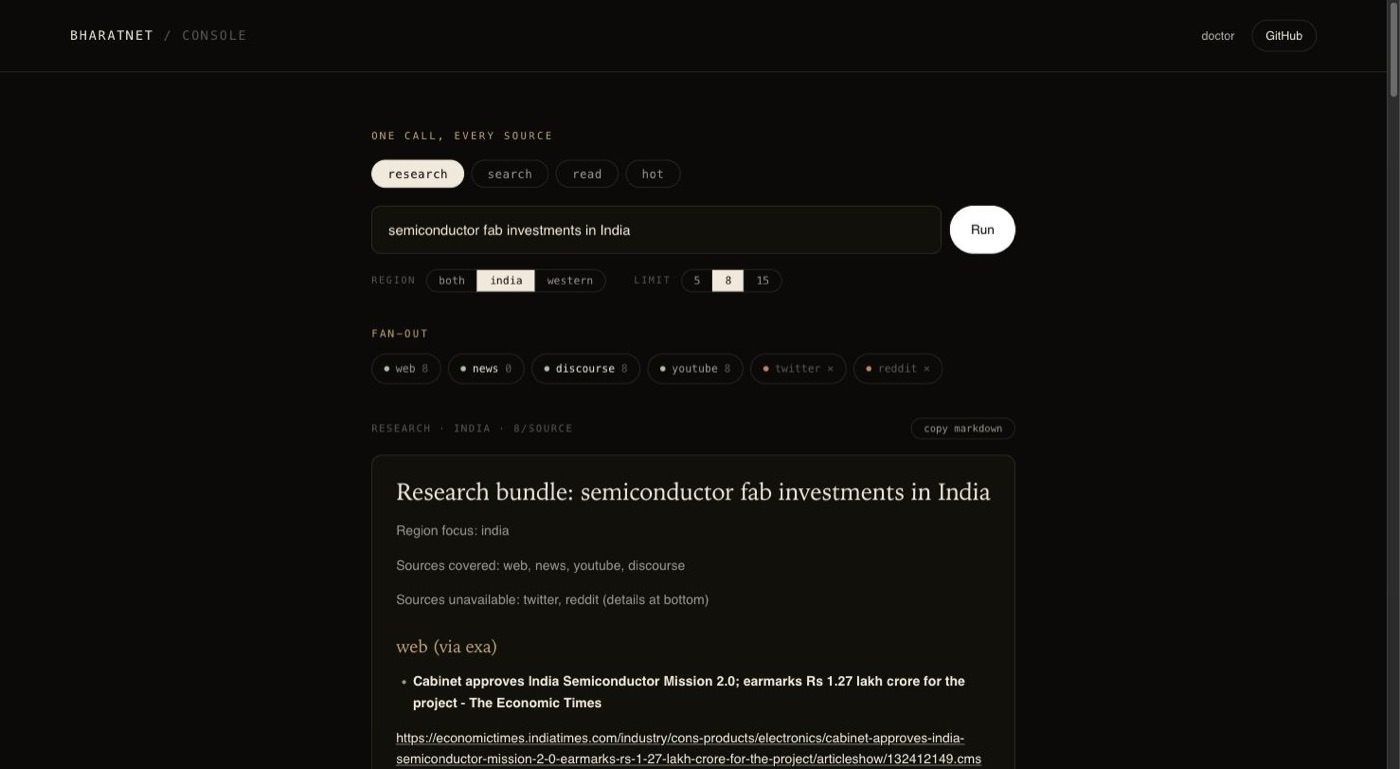
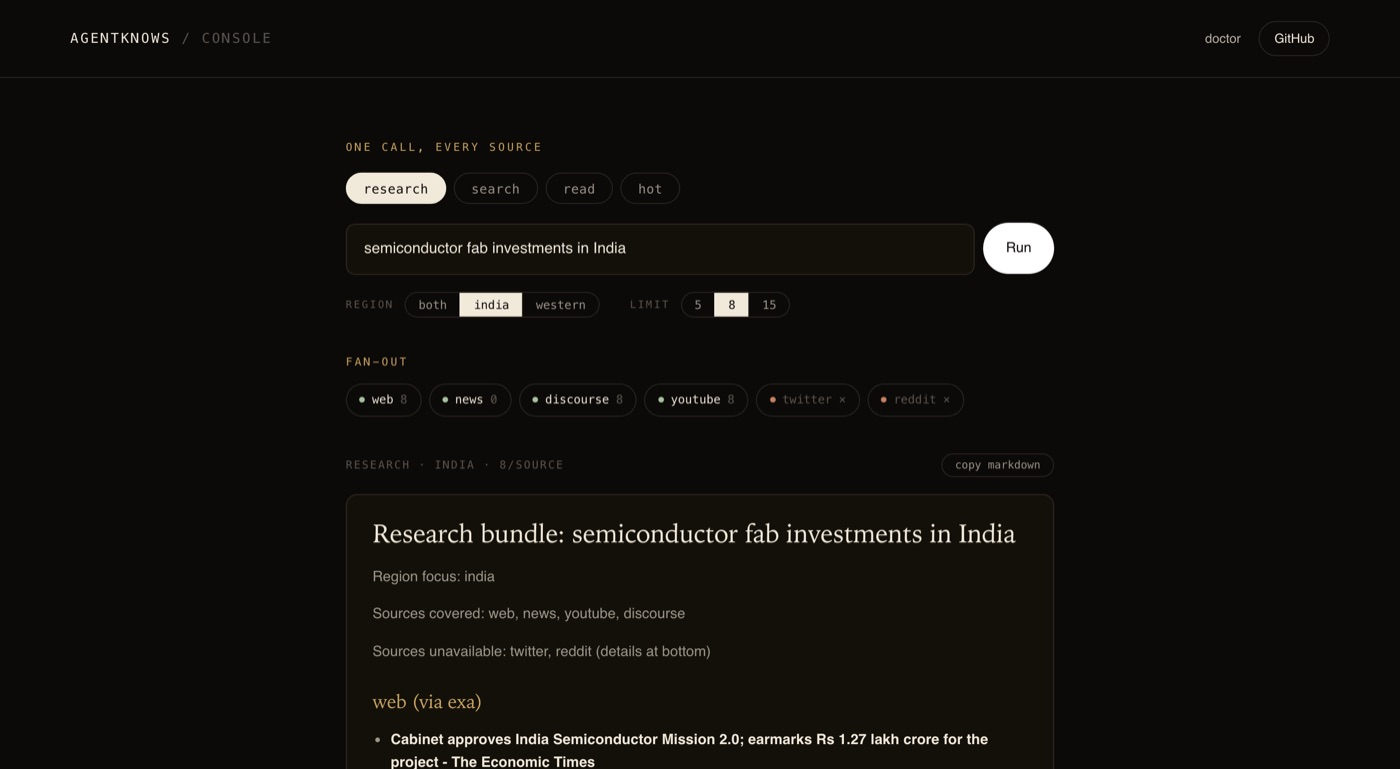
Rename bharatnet -> agentknows
Package, entry points (agentknows, agentknows-mcp), MCP server, console
UI, landing page copy + fresh console screenshot. GitHub repo renamed;
Vercel project moved to agentknows.vercel.app, old project removed.

Claude-Session: https://claude.ai/code/session_013PscN1V3gVMeCLyaeFySdK

diff --git a/lp/index.html b/lp/index.html
@@ -3,20 +3,20 @@
 <head>
 <meta charset="utf-8">
 <meta name="viewport" content="width=device-width, initial-scale=1">
-<title>bharatnet — one call, every source</title>
+<title>agentknows — one call, every source</title>
 <meta name="description" content="A typed Python SDK and MCP server for internet access across Western and Indian platforms. One facade, one result shape, machine-readable failures.">
 <link rel="stylesheet" href="styles.css">
 </head>
 <body>
 
 <header class="nav">
-  <a class="nav__mark" href="#top">bharatnet</a>
+  <a class="nav__mark" href="#top">agentknows</a>
   <nav class="nav__links">
     <a href="#what">What it does</a>
     <a href="#console">Console</a>
     <a href="#coverage">Coverage</a>
     <a href="#install">Install</a>
-    <a class="nav__cta" href="https://github.com/atharvad999/bharatnet">GitHub</a>
+    <a class="nav__cta" href="https://github.com/atharvad999/agentknows">GitHub</a>
   </nav>
 </header>
 
@@ -40,7 +40,7 @@
       <a class="btn btn--primary" href="#install">Get started</a>
       <a class="btn btn--ghost" href="#what">See how it works</a>
     </div>
-    <pre class="hero__code"><code><span class="c-k">from</span> bharatnet <span class="c-k">import</span> Reach
+    <pre class="hero__code"><code><span class="c-k">from</span> agentknows <span class="c-k">import</span> Reach
 
 reach = Reach()
 reach.read(<span class="c-s">"https://news.ycombinator.com/item?id=39000000"</span>)
@@ -56,7 +56,7 @@ reach.research(<span class="c-s">"UPI transaction limits"</span>, region=<span c
 
 <section class="strip">
   <p>
-    Fifteen platforms, each with its own CLI, auth story and output format. bharatnet
+    Fifteen platforms, each with its own CLI, auth story and output format. agentknows
     health-checks them, routes every request to the backend that currently works —
     Jina Reader, yt-dlp, <code>gh</code>, Exa, twitter-cli — and normalises what comes
     back into one envelope. Six channels need no configuration at all; the rest tell
@@ -107,7 +107,7 @@ reach.hot(<span class="c-s">"discourse"</span>, period=<span class="c-s">"weekly
   <div>
     <h2>One result shape</h2>
     <p class="lede">
-      Per-platform CLIs each have their own output format. bharatnet normalises all of
+      Per-platform CLIs each have their own output format. agentknows normalises all of
       them into one dataclass, so downstream code never branches on where the content
       came from.
     </p>
@@ -125,7 +125,7 @@ reach.hot(<span class="c-s">"discourse"</span>, period=<span class="c-s">"weekly
     <p class="lede">
       Missing tools do not raise opaque errors. Every <code>ReachError</code> subclass
       carries a <code>.fix</code> — a runnable prescription — and where a fallback
-      exists, bharatnet degrades to it instead of failing.
+      exists, agentknows degrades to it instead of failing.
     </p>
     <pre class="block"><code><span class="c-k">try</span>:
     reach.search(<span class="c-s">"react hooks"</span>, platform=<span class="c-s">"github"</span>)
@@ -133,7 +133,7 @@ reach.hot(<span class="c-s">"discourse"</span>, period=<span class="c-s">"weekly
     <span class="c-c">#  brew install gh && gh auth login</span>
     print(e.fix)</code></pre>
     <p class="lede">
-      <code>bharatnet doctor</code> returns the same information as a structured health
+      <code>agentknows doctor</code> returns the same information as a structured health
       report across every channel at once.
     </p>
   </div>
@@ -147,11 +147,11 @@ reach.hot(<span class="c-s">"discourse"</span>, period=<span class="c-s">"weekly
     logged-in sessions.</p>
   </div>
   <figure class="console-shot">
-    <img src="console.jpg" alt="bharatnet console — a research query fanning out across web, news, discourse and youtube, with the merged bundle below" loading="lazy" width="1400" height="770">
+    <img src="console.jpg" alt="agentknows console — a research query fanning out across web, news, discourse and youtube, with the merged bundle below" loading="lazy" width="1400" height="770">
   </figure>
   <pre class="block console-cmd"><code><span class="c-c"># two commands, then it opens itself</span>
-uv pip install <span class="c-s">"bharatnet[ui]"</span>
-bharatnet ui</code></pre>
+uv pip install <span class="c-s">"agentknows[ui]"</span>
+agentknows ui</code></pre>
 </section>
 
 <section class="section" id="coverage">
@@ -189,7 +189,7 @@ bharatnet ui</code></pre>
     <div>
       <h3>SDK &amp; CLI</h3>
       <pre class="block"><code>uv venv &amp;&amp; uv pip install -e .
-bharatnet doctor</code></pre>
+agentknows doctor</code></pre>
       <p class="note">
         <code>doctor</code> reports which upstream tools are missing and how to fix each
         one. Optional: <code>gh</code>, <code>mcporter</code> + <code>exa</code>,
@@ -200,8 +200,8 @@ bharatnet doctor</code></pre>
       <h3>MCP server</h3>
       <pre class="block"><code>{
   <span class="c-s">"mcpServers"</span>: {
-    <span class="c-s">"bharatnet"</span>: {
-      <span class="c-s">"command"</span>: <span class="c-s">"bharatnet-mcp"</span>
+    <span class="c-s">"agentknows"</span>: {
+      <span class="c-s">"command"</span>: <span class="c-s">"agentknows-mcp"</span>
     }
   }
 }</code></pre>
@@ -214,8 +214,8 @@ bharatnet doctor</code></pre>
 </section>
 
 <footer class="footer">
-  <span>bharatnet</span>
-  <span><a href="https://github.com/atharvad999/bharatnet">github.com/atharvad999/bharatnet</a></span>
+  <span>agentknows</span>
+  <span><a href="https://github.com/atharvad999/agentknows">github.com/atharvad999/agentknows</a></span>
 </footer>
 
 <script src="dither.js" defer></script>

diff --git a/src/agentknows/webapp/static/index.html b/src/agentknows/webapp/static/index.html
@@ -3,17 +3,17 @@
 <head>
 <meta charset="utf-8">
 <meta name="viewport" content="width=device-width, initial-scale=1">
-<title>bharatnet console</title>
-<meta name="description" content="Local console for bharatnet — read, search, hot and research across Indian and Western platforms.">
+<title>agentknows console</title>
+<meta name="description" content="Local console for agentknows — read, search, hot and research across Indian and Western platforms.">
 <link rel="stylesheet" href="/app.css">
 </head>
 <body>
 
 <header class="nav">
-  <a class="nav__mark" href="/">bharatnet <span class="nav__mark-dim">/ console</span></a>
+  <a class="nav__mark" href="/">agentknows <span class="nav__mark-dim">/ console</span></a>
   <nav class="nav__links">
     <button class="nav__doctor" id="doctor-btn" type="button" title="Channel health">doctor</button>
-    <a class="nav__cta" href="https://github.com/atharvad999/bharatnet" target="_blank" rel="noopener">GitHub</a>
+    <a class="nav__cta" href="https://github.com/atharvad999/agentknows" target="_blank" rel="noopener">GitHub</a>
   </nav>
 </header>
 
@@ -95,7 +95,7 @@
 </dialog>
 
 <footer class="footer">
-  <span>bharatnet · local console</span>
+  <span>agentknows · local console</span>
   <span id="foot-status">idle</span>
 </footer>
 

diff --git a/src/agentknows/webapp/static/app.css b/src/agentknows/webapp/static/app.css
@@ -1,4 +1,4 @@
-/* bharatnet console — shares the landing page's design system */
+/* agentknows console — shares the landing page's design system */
 
 :root {
   --ground: #0c0a08;

diff --git a/src/agentknows/webapp/static/app.js b/src/agentknows/webapp/static/app.js
@@ -1,4 +1,4 @@
-/* bharatnet console */
+/* agentknows console */
 (() => {
   "use strict";
 

diff --git a/src/agentknows/webapp/__init__.py b/src/agentknows/webapp/__init__.py
@@ -1,7 +1,7 @@
 # -*- coding: utf-8 -*-
-"""Local web console for bharatnet — FastAPI + static single page.
+"""Local web console for agentknows — FastAPI + static single page.
 
-Run: `bharatnet ui` (opens http://127.0.0.1:8787). Local-first by design:
+Run: `agentknows ui` (opens http://127.0.0.1:8787). Local-first by design:
 the strongest backends (yt-dlp, gh CLI, cookies, OpenCLI) live on this
 machine, so the console runs next to them rather than on a server.
 """
@@ -34,10 +34,10 @@ def create_app():
     except ImportError as exc:  # pragma: no cover
         raise ReachError(
             "The web console needs fastapi + uvicorn.",
-            fix='uv pip install "bharatnet[ui]"',
+            fix='uv pip install "agentknows[ui]"',
         ) from exc
 
-    app = FastAPI(title="bharatnet console")
+    app = FastAPI(title="agentknows console")
     reach = Reach()
 
     @app.get("/")
@@ -121,5 +121,5 @@ def main(port: int = 8787, open_browser: bool = True) -> None:
     url = f"http://127.0.0.1:{port}"
     if open_browser:
         threading.Timer(0.8, lambda: webbrowser.open(url)).start()
-    print(f"bharatnet console → {url}")
+    print(f"agentknows console → {url}")
     uvicorn.run(app, host="127.0.0.1", port=port, log_level="warning")

diff --git a/tests/test_new_adapters.py b/tests/test_new_adapters.py
@@ -1,12 +1,12 @@
 # -*- coding: utf-8 -*-
 import pytest
 
-from bharatnet.adapters.discourse import _TOPIC_RE, DEFAULT_FORUM
-from bharatnet.adapters.discourse import _strip_html as strip_discourse
-from bharatnet.adapters.hackernews import _ID_RE
-from bharatnet.adapters.hackernews import _strip_html as strip_hn
-from bharatnet.adapters.news import FEEDS, _region_feeds
-from bharatnet.errors import UpstreamFailure
+from agentknows.adapters.discourse import _TOPIC_RE, DEFAULT_FORUM
+from agentknows.adapters.discourse import _strip_html as strip_discourse
+from agentknows.adapters.hackernews import _ID_RE
+from agentknows.adapters.hackernews import _strip_html as strip_hn
+from agentknows.adapters.news import FEEDS, _region_feeds
+from agentknows.errors import UpstreamFailure
 
 
 def test_hn_id_extraction():
@@ -41,7 +41,7 @@ def test_news_regions():
 def test_stocks_missing_dep_message():
     # yfinance installed in this env → adapter importable; just ensure the
     # symbol-parse failure path raises a ReachError with a fix.
-    from bharatnet.adapters.hackernews import HackerNewsAdapter
+    from agentknows.adapters.hackernews import HackerNewsAdapter
 
     with pytest.raises(UpstreamFailure):
         HackerNewsAdapter().read("not-a-number")

diff --git a/src/agentknows/cli.py b/src/agentknows/cli.py
@@ -1,13 +1,13 @@
 # -*- coding: utf-8 -*-
-"""bharatnet CLI — human-friendly front door to the SDK.
+"""agentknows CLI — human-friendly front door to the SDK.
 
-    bharatnet read <url>
-    bharatnet search "query" [-p youtube] [-n 10]
-    bharatnet hot hackernews
-    bharatnet hot news --region india
-    bharatnet doctor
-    bharatnet platforms
-    bharatnet serve            # start the MCP server (stdio)
+    agentknows read <url>
+    agentknows search "query" [-p youtube] [-n 10]
+    agentknows hot hackernews
+    agentknows hot news --region india
+    agentknows doctor
+    agentknows platforms
+    agentknows serve            # start the MCP server (stdio)
 
 Add --json anywhere for machine output.
 """
@@ -55,7 +55,7 @@ def _print(result: ReachResult, as_json: bool) -> None:
 
 
 def main(argv: list[str] | None = None) -> int:
-    parser = argparse.ArgumentParser(prog="bharatnet", description=__doc__)
+    parser = argparse.ArgumentParser(prog="agentknows", description=__doc__)
     common = argparse.ArgumentParser(add_help=False)
     common.add_argument("--json", action="store_true", help="JSON output")
     sub = parser.add_subparsers(dest="command", required=True)

diff --git a/src/agentknows/doctor.py b/src/agentknows/doctor.py
@@ -1,5 +1,5 @@
 # -*- coding: utf-8 -*-
-"""Structured health report: agent-reach channel probes + bharatnet-native channels."""
+"""Structured health report: agent-reach channel probes + agentknows-native channels."""
 
 from __future__ import annotations
 
@@ -14,7 +14,7 @@ _TIER_LABELS = {0: "zero-config", 1: "free-key", 2: "login-required"}
 
 
 def _native_checks() -> list[dict[str, Any]]:
-    """Probes for platforms bharatnet adds on top of agent-reach."""
+    """Probes for platforms agentknows adds on top of agent-reach."""
     rows: list[dict[str, Any]] = []
 
     try:
@@ -60,7 +60,7 @@ def doctor(config: Any = None) -> ReachResult:
     return ReachResult(
         ok=True,
         platform="*",
-        backend="bharatnet",
+        backend="agentknows",
         kind="status",
         meta={
             "channels": report,

diff --git a/src/agentknows/router.py b/src/agentknows/router.py
@@ -1,7 +1,7 @@
 # -*- coding: utf-8 -*-
 """URL → platform resolution.
 
-bharatnet-native platforms (Hacker News, Discourse forums) are matched first;
+agentknows-native platforms (Hacker News, Discourse forums) are matched first;
 then agent-reach's channel registry handles its platforms (`can_handle`).
 Chinese channels are excluded — their URLs fall through to 'web' (Jina Reader
 reads anything). Registry order matters: RSS heuristics before the catch-all.
@@ -15,7 +15,7 @@ from agent_reach.channels import ALL_CHANNELS
 
 from .adapters.discourse import KNOWN_HOSTS as _DISCOURSE_HOSTS
 
-#: agent-reach channels outside bharatnet's Western+Indian scope.
+#: agent-reach channels outside agentknows's Western+Indian scope.
 EXCLUDED_CHANNELS = {"bilibili", "xiaohongshu", "v2ex", "xueqiu", "xiaoyuzhou"}
 
 _NATIVE_HOSTS = {

diff --git a/src/agentknows/mcp_server.py b/src/agentknows/mcp_server.py
@@ -1,10 +1,10 @@
 # -*- coding: utf-8 -*-
-"""MCP server exposing bharatnet to any MCP client (Claude Desktop, Cursor, ...).
+"""MCP server exposing agentknows to any MCP client (Claude Desktop, Cursor, ...).
 
-Run:  bharatnet-mcp          (stdio transport)
+Run:  agentknows-mcp          (stdio transport)
 
 Claude Desktop config:
-    {"mcpServers": {"bharatnet": {"command": "bharatnet-mcp"}}}
+    {"mcpServers": {"agentknows": {"command": "agentknows-mcp"}}}
 """
 
 from __future__ import annotations
@@ -18,7 +18,7 @@ from .errors import ReachError
 from .models import ReachResult
 
 mcp = FastMCP(
-    "bharatnet",
+    "agentknows",
     instructions=(
         "Unified internet access across Western + Indian platforms: web, YouTube, "
         "GitHub, RSS, Twitter/X, Hacker News, Reddit, NSE/BSE/US stocks, Indian + "

diff --git a/tests/test_webapp.py b/tests/test_webapp.py
@@ -4,7 +4,7 @@ import pytest
 fastapi = pytest.importorskip("fastapi")
 from fastapi.testclient import TestClient  # noqa: E402
 
-from bharatnet.webapp import create_app  # noqa: E402
+from agentknows.webapp import create_app  # noqa: E402
 
 
 @pytest.fixture(scope="module")
@@ -15,7 +15,7 @@ def client():
 def test_index_serves_html(client):
     resp = client.get("/")
     assert resp.status_code == 200
-    assert "bharatnet console" in resp.text
+    assert "agentknows console" in resp.text
 
 
 def test_static_assets(client):

diff --git a/src/agentknows/research.py b/src/agentknows/research.py
@@ -151,7 +151,7 @@ def synthesize(query: str, bundle_md: str, *, region: str | None = None) -> str:
         raise SetupRequired(
             "Report synthesis needs the anthropic SDK.",
             platform="research",
-            fix='uv pip install "bharatnet[research]"   # or: pip install anthropic',
+            fix='uv pip install "agentknows[research]"   # or: pip install anthropic',
         ) from exc
 
     region_note = f" The user cares about the {region} internet's perspective." if region else ""
